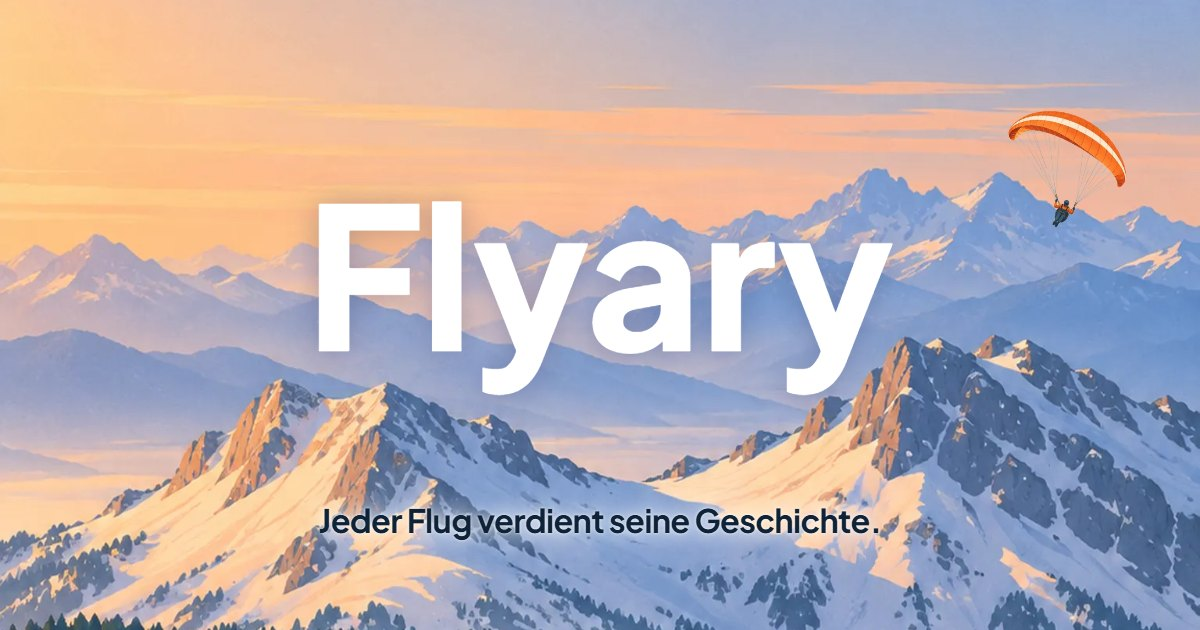
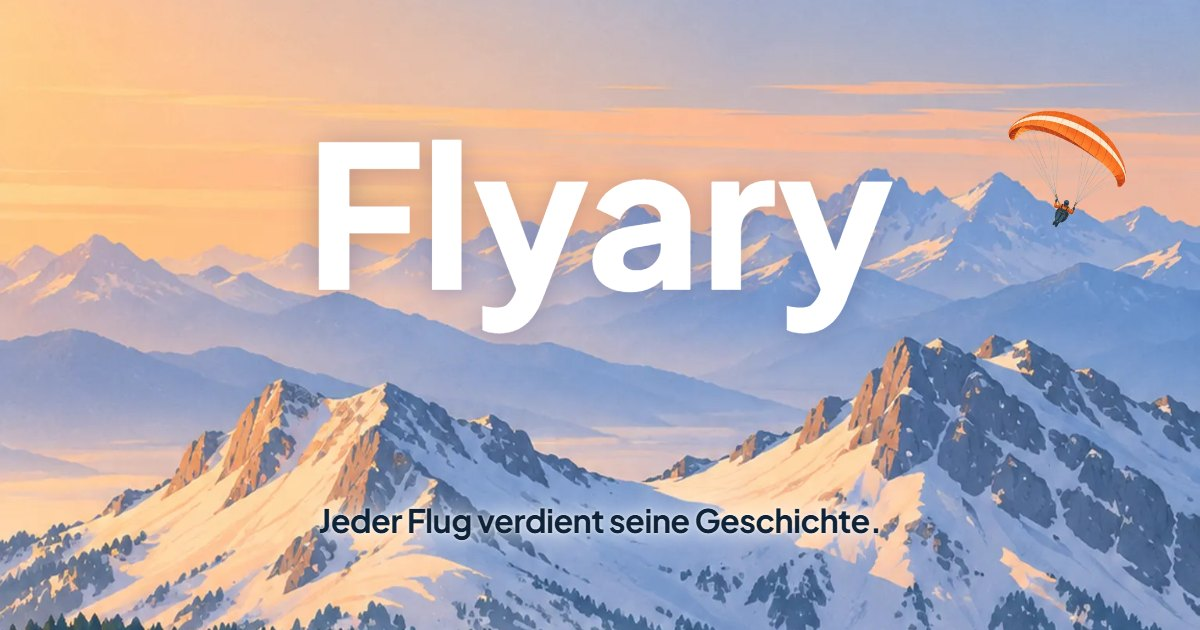
Webseite: «Flyary» steht zuerst frei und sinkt beim Scrollen hinter den Grat
Die Bewegung im Hero ist umgedreht: Der Schriftzug steht anfangs ganz
sichtbar über dem Schneegrat und sinkt beim Scrollen zu gut der Hälfte
hinter die Berge, bevor ihn die Wolken verdecken. Link-Vorschaubilder
neu erzeugt.

Changed region(s): [[0.2467, 0.2111, 0.74, 0.6333], [0.2775, 0.3619, 0.3392, 0.3921]]

diff --git a/website/stage.js b/website/stage.js
@@ -96,8 +96,8 @@
         const pan = i === 3 ? Math.max(0, MEADOW_ROW * s + base - (vh - footH)) * land : 0;   // down to the meadow above the footer
         for (const l of sc.layers) place(l.el, (W - cw) / 2, base + l.crop * s + (i === 3 ? (rel < 0 ? shift(l.f) - rel * .45 : 0) - pan * l.f : shift(l.f)));
         if (i === 0) {
-          // The name starts a third hidden behind the ridge and rises clear of it over the first part of the scroll.
-          const out = ease(clamp(y / (.3 * vh))), ty = base + TITLE_ROW * s + shift(.44) + brandH * .3 * (1 - out) - RISE_ROWS * s * out;
+          // The name starts clear above the ridge and sinks more than half behind it over the first part of the scroll.
+          const sink = ease(clamp(y / (.45 * vh))), ty = base + (TITLE_ROW - RISE_ROWS) * s + shift(.44) + (RISE_ROWS * s + brandH * .6) * sink;
           place(title, 0, ty);
           place(claim, 0, above ? ty - brandH - claimH / 2 : base + CLAIM_ROW * s + shift(.44));   // below the name it lies on the ridge and moves with it
         }
@@ -209,11 +209,11 @@
       if (sc.ground) place(sc.ground, 0, coverY + c.ground[0] * s);
       if (i === 3) meadow = coverY;
       if (i === 0) {
-        // The name starts a third hidden behind the ridge and rises clear of it over the first part of the scroll.
-        const out = ease(clamp(y / (.22 * vh))), ty = base + TITLE_ROW * s + brandH * .3 * (1 - out) - RISE_ROWS * s * out - D * .3 * t;
+        // The name starts clear above the ridge and sinks more than half behind it over the first part of the scroll.
+        const sink = ease(clamp(y / (.4 * vh))), ty = base + (TITLE_ROW - RISE_ROWS) * s + (RISE_ROWS * s + brandH * .6) * sink - D * .3 * t;
         place(title, 0, ty);
         place(claim, 0, above ? ty - brandH - claimH / 2 : base + CLAIM_ROW * s - D * .44 * t);
-        title.style.opacity = claim.style.opacity = (1 - clamp((rise[0] - .2) * 3)).toFixed(3);   // it stands clear for a while before the clouds take it
+        title.style.opacity = claim.style.opacity = (1 - clamp((rise[0] - .25) * 3)).toFixed(3);   // it has sunk behind the ridge before the clouds take it
       }
       // The leaving scene slides away upwards. Its lower edge is soft (a fixed mask in home.css, below the window while
       // the scene is at rest), so the next scene appears through a haze instead of along a line.
